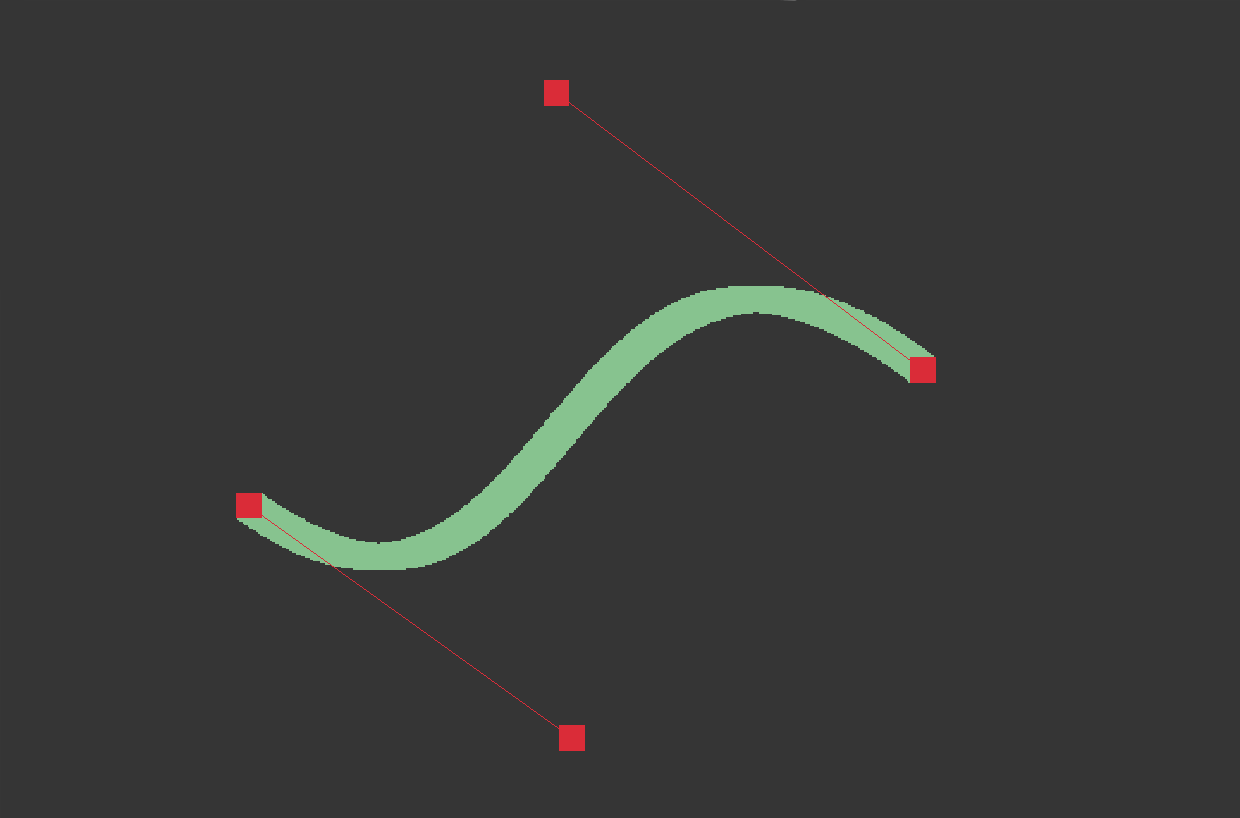
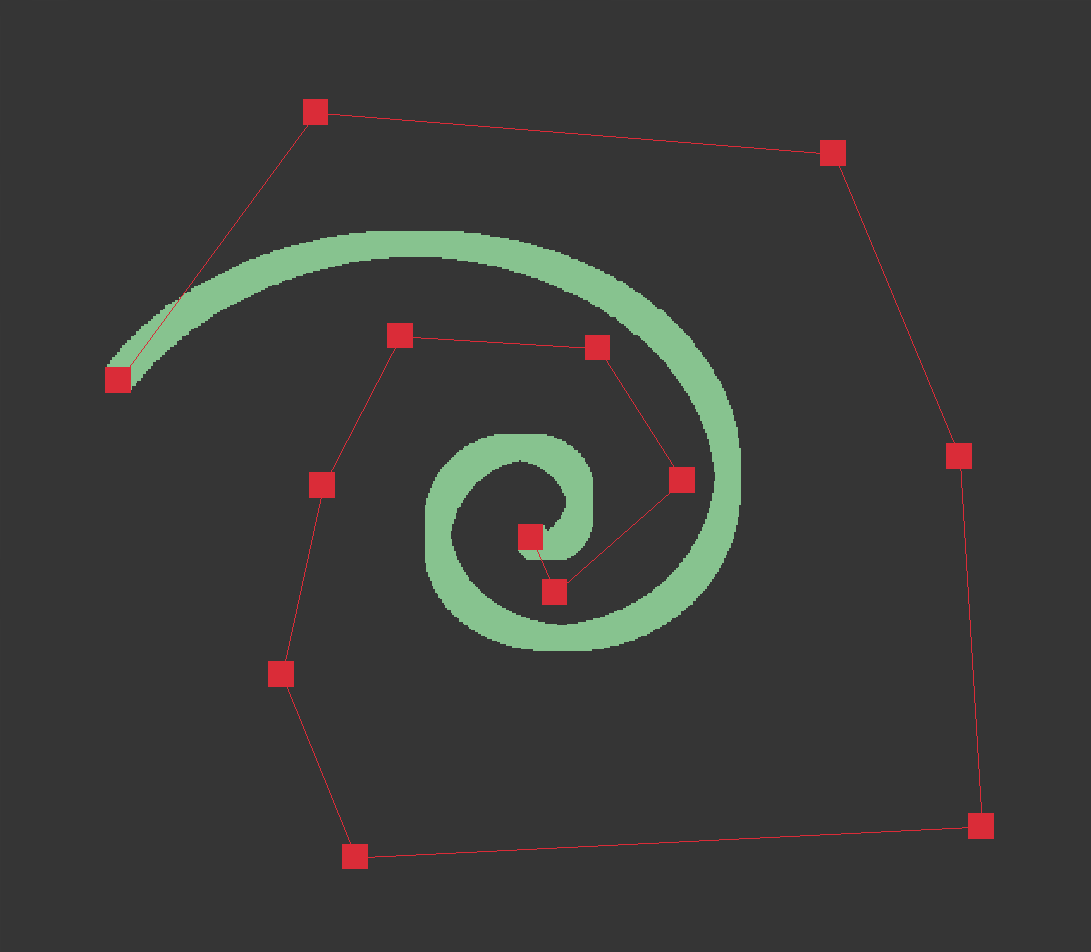
Make bezier rendering work with arbitrary amount of initial points

diff --git a/main.c b/main.c
@@ -116,35 +116,37 @@ void render_marker(SDL_Renderer *renderer, Vec2 pos, uint32_t color)
         color);
 }
 
-// TODO: explore how to render bezier curves on GPU using fragment shaders
-// TODO: make bezier_sample to work with arbitrary amount of pointsa
-Vec2 bezier_sample(Vec2 a, Vec2 b, Vec2 c, Vec2 d, float p)
+Vec2 beziern_sample(Vec2 *ps, Vec2 *xs, size_t n, float p)
 {
-    const Vec2 ab = lerpv2(a, b, p);
-    const Vec2 bc = lerpv2(b, c, p);
-    const Vec2 cd = lerpv2(c, d, p);
-    const Vec2 abc = lerpv2(ab, bc, p);
-    const Vec2 bcd = lerpv2(bc, cd, p);
-    const Vec2 abcd = lerpv2(abc, bcd, p);
-    return abcd;
+    memcpy(xs, ps, sizeof(Vec2) * n);
+
+    while (n > 1) {
+        for (size_t i = 0; i < n - 1; ++i) {
+            xs[i] = lerpv2(xs[i], xs[i + 1], p);
+        }
+        n -= 1;
+    }
+
+    return xs[0];
 }
 
+// TODO: explore how to render bezier curves on GPU using fragment shaders
 void render_bezier_markers(SDL_Renderer *renderer,
-                           Vec2 a, Vec2 b, Vec2 c, Vec2 d,
+                           Vec2 *ps, Vec2 *xs, size_t n,
                            float s, uint32_t color)
 {
     for (float p = 0.0f; p <= 1.0f; p += s) {
-        render_marker(renderer, bezier_sample(a, b, c, d, p), color);
+        render_marker(renderer, beziern_sample(ps, xs, n, p), color);
     }
 }
 
 void render_bezier_curve(SDL_Renderer *renderer,
-                         Vec2 a, Vec2 b, Vec2 c, Vec2 d,
+                         Vec2 *ps, Vec2 *xs, size_t n,
                          float s, uint32_t color)
 {
     for (float p = 0.0f; p <= 1.0f; p += s) {
-        Vec2 begin = bezier_sample(a, b, c, d, p);
-        Vec2 end = bezier_sample(a, b, c, d, p + s);
+        Vec2 begin = beziern_sample(ps, xs, n, p);
+        Vec2 end = beziern_sample(ps, xs, n, p + s);
         render_line(renderer, begin, end, color);
     }
 }
@@ -152,6 +154,7 @@ void render_bezier_curve(SDL_Renderer *renderer,
 #define PS_CAPACITY 256
 
 Vec2 ps[PS_CAPACITY];
+Vec2 xs[PS_CAPACITY];
 size_t ps_count = 0;
 int ps_selected = -1;
 
@@ -215,10 +218,10 @@ int main(void)
                 switch (event.button.button) {
                 case SDL_BUTTON_LEFT: {
                     const Vec2 mouse_pos = vec2(event.button.x, event.button.y);
-                    if (ps_count < 4) {
+                    ps_selected = ps_at(mouse_pos);
+
+                    if (ps_selected < 0 && ps_count < PS_CAPACITY) {
                         ps[ps_count++] = mouse_pos;
-                    } else {
-                        ps_selected = ps_at(mouse_pos);
                     }
                 } break;
                 }
@@ -255,29 +258,28 @@ int main(void)
         check_sdl_code(
             SDL_RenderClear(renderer));
 
-        if (ps_count >= 4) {
+        if (ps_count >= 1) {
             if (markers) {
                 render_bezier_markers(
                     renderer,
-                    ps[0], ps[1], ps[2], ps[3],
+                    ps, xs, ps_count,
                     bezier_sample_step,
                     GREEN_COLOR);
             } else {
                 render_bezier_curve(
                     renderer,
-                    ps[0], ps[1], ps[2], ps[3],
+                    ps, xs, ps_count,
                     bezier_sample_step,
                     GREEN_COLOR);
             }
-
-            render_line(renderer, ps[0], ps[1], RED_COLOR);
-            render_line(renderer, ps[2], ps[3], RED_COLOR);
         }
 
         for (size_t i = 0; i < ps_count; ++i) {
             render_marker(renderer, ps[i], RED_COLOR);
+            if (i < ps_count - 1) {
+                render_line(renderer, ps[i], ps[i + 1], RED_COLOR);
+            }
         }
-
 
         SDL_RenderPresent(renderer);
 
